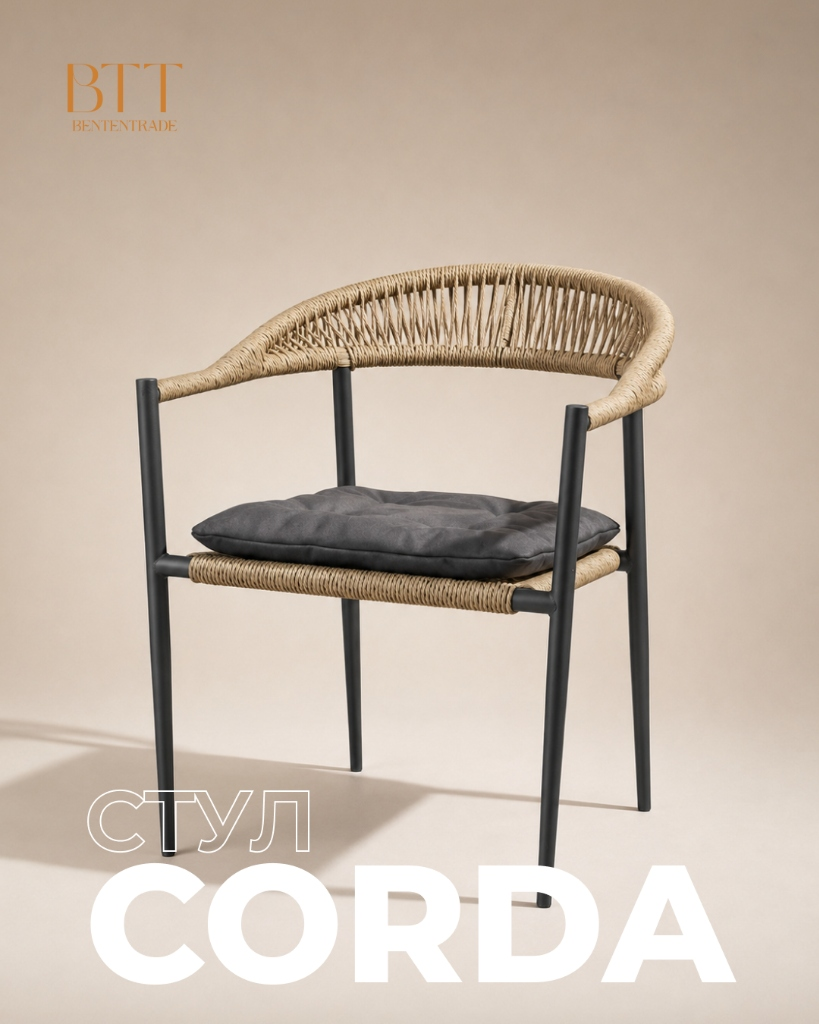
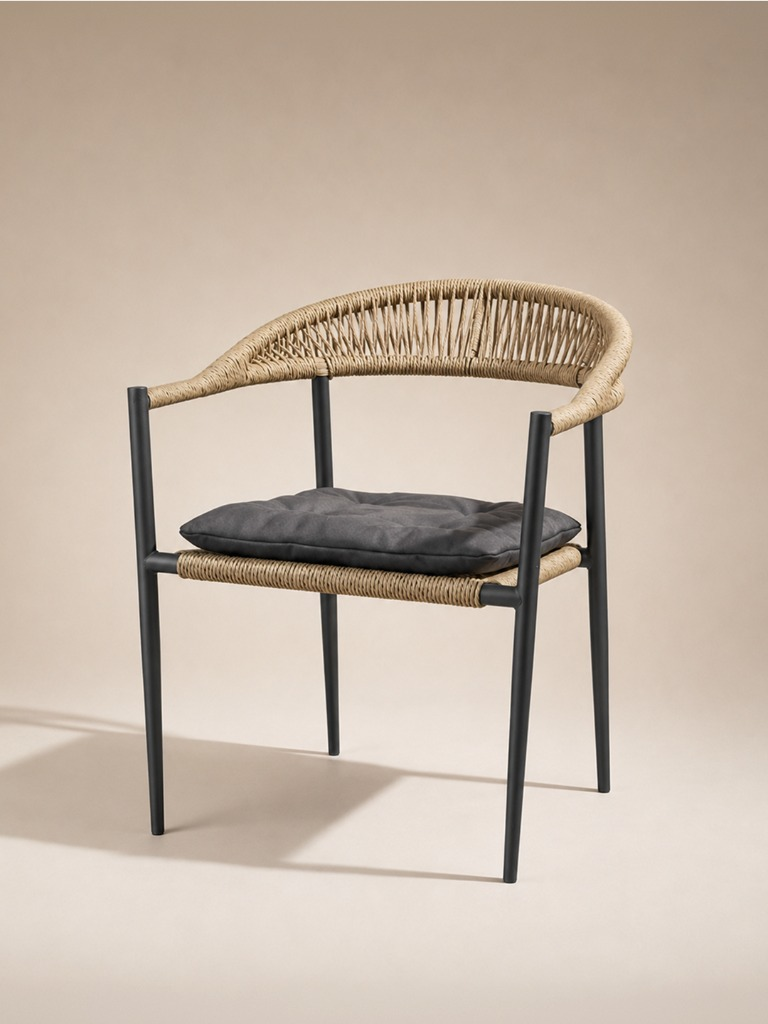
feat(media): integrate authentic clean multi-angle studio photos for stul-corda

diff --git a/assets/products.js b/assets/products.js
@@ -79,11 +79,23 @@
       "текстиль"
     ],
     "maxLoad": null,
-    "confirmedColors": [],
+    "confirmedColors": [
+      {
+        "id": "beige",
+        "hex": "#C4A482",
+        "name": {
+          "ru": "Бежевый",
+          "uz": "Sarg‘ish",
+          "en": "Beige"
+        }
+      }
+    ],
     "isTable": false,
     "images": [
       "assets/prod-chair-corda.jpg",
-      "assets/scene-dining-warm.png"
+      "assets/prod-chair-corda-side.jpg",
+      "assets/prod-chair-corda-detail-back.jpg",
+      "assets/prod-chair-corda-detail-seat.jpg"
     ],
     "i18n": {
       "ru": {
